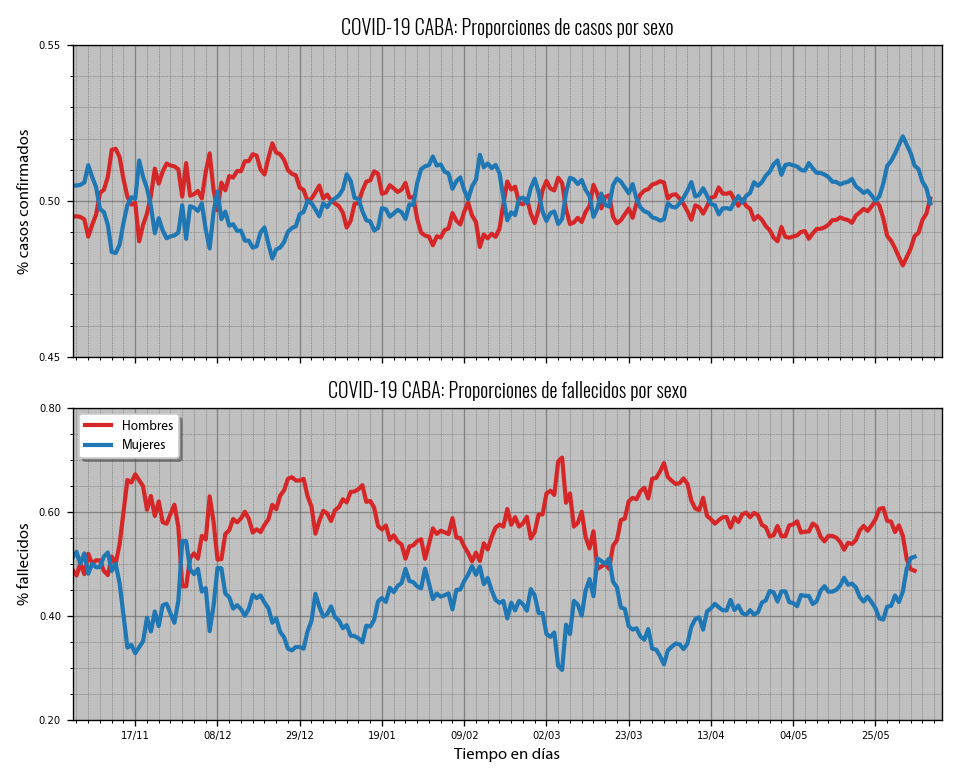
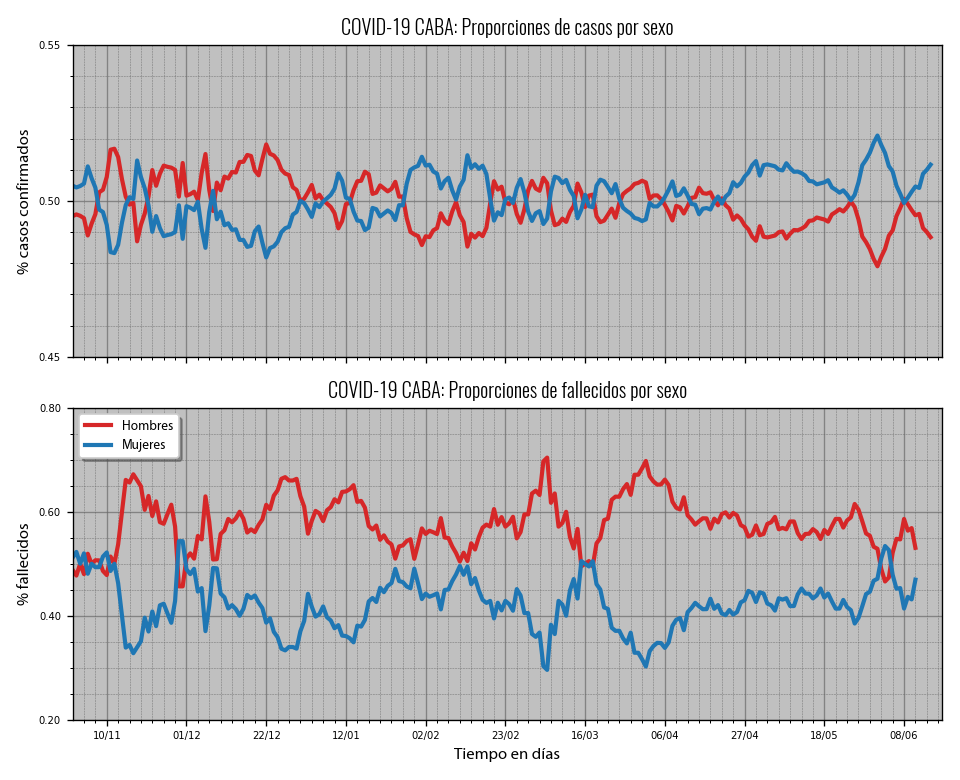
Updating charts...

Changed region(s): [[0.0938, 0.5231, 0.9688, 0.9538], [0.0625, 0.0615, 0.9688, 0.4615]]

diff --git a/chart_config.py b/chart_config.py
@@ -26,7 +26,7 @@ language = 1 #0 = english, 1 = spanish
 legend_text_size = 8
 plot_scale = "linear"
 start_date = "2020-11-01"
-end_date = "2021-06-11"
+end_date = "2021-06-18"
 week_interval = 3
 v_start_date = "2021-01-01"
 v_week_interval = 2
